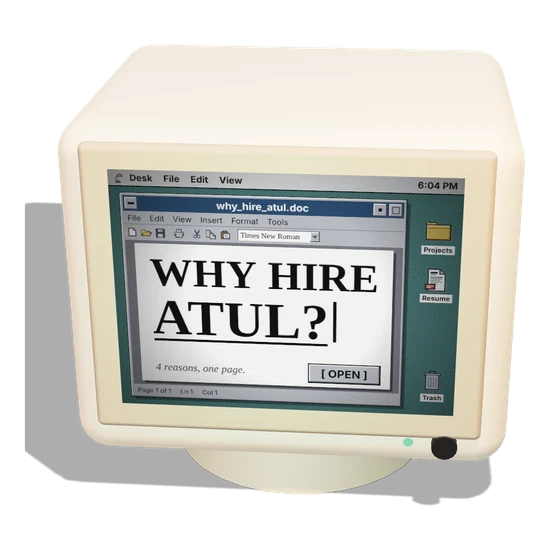
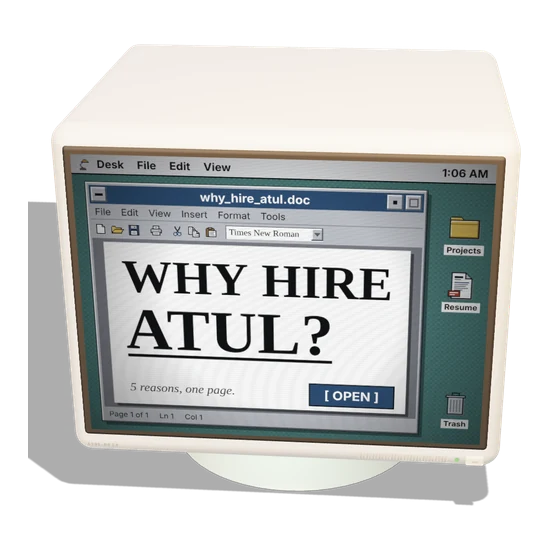
Desk monitor, loading text

diff --git a/css/retro.css b/css/retro.css
@@ -16,9 +16,6 @@
   --rt-paper: #ffffff;
   --rt-paper-ink: #16171a;
   --rt-link: #1d3f9a;
-  --rt-case-inset:
-    inset 0 3px 7px rgba(255, 251, 238, 0.6), inset 0 -12px 20px rgba(98, 80, 50, 0.3),
-    inset 10px 0 16px -8px rgba(255, 250, 235, 0.3), inset -12px 0 18px -8px rgba(98, 80, 50, 0.3);
   --rt-ui: "Helvetica Neue", Helvetica, Arial, "Liberation Sans", sans-serif;
   --rt-serif: "Times New Roman", Times, "Liberation Serif", "Nimbus Roman", serif;
   --rt-term: "VT323", "IBM Plex Mono", ui-monospace, Menlo, Consolas, "DejaVu Sans Mono", monospace;
@@ -52,21 +49,17 @@
 .rt-monitor {
   position: relative;
   padding: 30px 34px 0;
-  border-radius: 46px 46px 38px 38px / 42px 42px 34px 34px;
-  /* beige case like the 3d crt */
-  background:
-    radial-gradient(120% 60% at 22% 0%, rgba(255, 250, 235, 0.4), rgba(255, 250, 235, 0) 62%),
-    linear-gradient(180deg, #d8ccb4 0%, #cdbfa6 42%, #bfb095 100%);
-  box-shadow: var(--rt-case-inset), 0 40px 90px -30px rgba(0, 0, 0, 0.85), 0 0 0 1px #8f8672;
+  border-radius: 26px 26px 20px 20px;
+  background: #d5cebb;
+  box-shadow:
+    inset 0 2px 0 #ebe5d5, inset 2px 0 0 #e2dbca, inset -2px 0 0 #b7ae97, inset 0 -4px 0 #a99f87,
+    0 40px 90px -30px rgba(0, 0, 0, 0.85), 0 0 0 1px #8f8672;
 }
-/* recessed beige bezel */
 .rt-recess {
   padding: 13px;
-  border-radius: 18px;
-  background: linear-gradient(180deg, #a09379 0%, #aea188 100%);
-  box-shadow:
-    inset 0 4px 9px rgba(64, 50, 30, 0.5), inset 3px 0 6px rgba(64, 50, 30, 0.25), inset 0 -1px 0 rgba(255, 250, 235, 0.2),
-    0 1px 0 rgba(255, 251, 238, 0.75), 0 -1px 0 rgba(120, 104, 78, 0.55);
+  border-radius: 20px;
+  background: #2b2924;
+  box-shadow: inset 0 4px 10px rgba(0, 0, 0, 0.75), inset 0 -1px 0 rgba(255, 255, 255, 0.08), 0 1px 0 #efe9d9, 0 -1px 0 #a99f87;
 }
 .rt-dlg .rt-screen { width: var(--sw); height: calc(var(--sw) * 3 / 4); }
 .rt-screen {
@@ -76,29 +69,34 @@
   background: #050605;
   container: rtscreen / size;
   isolation: isolate;
-  box-shadow: 0 0 0 1px rgba(46, 36, 22, 0.6), 0 2px 5px rgba(46, 36, 22, 0.35);
 }
 .rt-chin {
-  height: 70px; display: flex; align-items: center; padding: 0 96px 0 6px;
+  height: 66px; display: flex; align-items: center; gap: 18px; padding: 0 6px 0 4px;
 }
 .rt-badge {
-  font: 700 12px/1 var(--rt-ui); letter-spacing: 0.32em; color: #7f765f;
+  font: 700 12px/1 var(--rt-ui); letter-spacing: 0.32em; color: #8d846f;
   text-shadow: 0 1px 0 #eee8d8, 0 -1px 0 #a49a83;
 }
 .rt-badge em { font-style: normal; font-weight: 400; letter-spacing: 0.1em; }
+.rt-vents {
+  flex: 1; height: 14px; max-width: 220px; margin-left: auto;
+  background: repeating-linear-gradient(90deg, #a9a08a 0 2px, transparent 2px 9px);
+  box-shadow: 0 1px 0 #ece6d6; opacity: 0.8;
+}
 .rt-led {
-  width: 10px; height: 10px; border-radius: 50%; margin-left: auto; margin-right: 62px; background: #5f6a58;
-  box-shadow: inset 0 1px 1px rgba(0, 0, 0, 0.5), 0 1px 0 rgba(255, 251, 238, 0.7);
+  width: 8px; height: 8px; border-radius: 50%; background: #3a3a2f;
+  box-shadow: inset 0 1px 1px rgba(0, 0, 0, 0.5), 0 1px 0 #ece6d6;
 }
-.rt-on .rt-led { background: #3ddc97; box-shadow: 0 0 6px 1px rgba(61, 220, 151, 0.65), inset 0 -1px 1px rgba(0, 0, 0, 0.25), 0 1px 0 rgba(255, 251, 238, 0.7); }
-/* round black knob */
+.rt-on .rt-led { background: #7dd36a; box-shadow: 0 0 6px 1px rgba(125, 211, 106, 0.7), inset 0 -1px 1px rgba(0, 0, 0, 0.3); }
 .rt-power {
-  width: 38px; height: 38px; border: 0; border-radius: 50%; cursor: pointer; padding: 0; flex: none;
-  background: radial-gradient(circle at 36% 30%, #4b4a47 0%, #1b1b1a 48%, #0a0a09 100%);
-  box-shadow: inset 0 1px 1px rgba(255, 255, 255, 0.2), 0 2px 4px rgba(0, 0, 0, 0.5), 0 0 0 3px rgba(98, 80, 50, 0.22);
+  width: 44px; height: 30px; border: 0; border-radius: 6px; cursor: pointer; padding: 0;
+  background: #cbc3ae;
+  box-shadow: inset 0 2px 0 #e6dfcd, inset 0 -3px 0 #9d937b, 0 1px 0 #8f8672, 0 2px 4px rgba(0, 0, 0, 0.25);
+  display: grid; place-items: center;
 }
-.rt-power:active { box-shadow: inset 0 2px 4px rgba(0, 0, 0, 0.7), 0 1px 2px rgba(0, 0, 0, 0.4), 0 0 0 3px rgba(98, 80, 50, 0.22); transform: translateY(1px); }
-.rt-power:focus-visible { outline: 2px solid var(--amber, #f5b041); outline-offset: 4px; }
+.rt-power span { width: 14px; height: 4px; border-radius: 2px; background: #9d937b; box-shadow: inset 0 1px 1px rgba(0, 0, 0, 0.3); }
+.rt-power:active { box-shadow: inset 0 3px 3px rgba(0, 0, 0, 0.25), 0 1px 0 #8f8672; transform: translateY(1px); }
+.rt-power:focus-visible { outline: 2px solid var(--amber, #f5b041); outline-offset: 3px; }
 
 /* ---------- screen layers ---------- */
 .rt-content { position: absolute; inset: 0; transform-origin: 50% 50%; }
@@ -494,7 +492,7 @@ button.rt-wbtn:active { box-shadow: var(--rt-sunken); }
   .rt-dlg .rt-room { padding: 0; }
   .rt-dlg .rt-monitor { padding: 0; border-radius: 0; background: #050605; box-shadow: none; width: 100%; height: 100%; }
   .rt-dlg .rt-recess { padding: 0; border-radius: 0; box-shadow: none; height: 100%; }
-  .rt-dlg .rt-screen { width: 100%; height: 100%; border-radius: 0; box-shadow: none; }
+  .rt-dlg .rt-screen { width: 100%; height: 100%; border-radius: 0; }
   .rt-dlg .rt-chin { display: none; }
   .rt-dlg .rt-off { display: inline-block; }
   .rt-dlg .rt-glass {
@@ -507,7 +505,9 @@ button.rt-wbtn:active { box-shadow: var(--rt-sunken); }
 
 /* ---------- inline monitor ---------- */
 .rt-inline { margin-top: 48px; max-width: 980px; position: relative; }
-.rt-inline .rt-monitor { width: 100%; box-shadow: var(--rt-case-inset), 0 30px 70px -30px rgba(0, 0, 0, 0.8), 0 0 0 1px #8f8672; }
+.rt-inline .rt-monitor { width: 100%; box-shadow:
+    inset 0 2px 0 #ebe5d5, inset 2px 0 0 #e2dbca, inset -2px 0 0 #b7ae97, inset 0 -4px 0 #a99f87,
+    0 30px 70px -30px rgba(0, 0, 0, 0.8), 0 0 0 1px #8f8672; }
 .rt-inline .rt-screen { width: 100%; aspect-ratio: 4 / 3; }
 .rt-inline .rt-work { overscroll-behavior: contain; }
 
@@ -546,13 +546,13 @@ button.rt-icon:hover .rt-icon-label { background: var(--rt-title); color: #fff; 
 
 @media (max-width: 720px) {
   .rt-inline { margin-top: 32px; }
-  .rt-inline .rt-monitor { padding: 10px 10px 0; border-radius: 22px 22px 16px 16px; }
-  .rt-inline .rt-recess { padding: 6px; border-radius: 10px; }
+  .rt-inline .rt-monitor { padding: 10px 10px 0; border-radius: 16px 16px 12px 12px; }
+  .rt-inline .rt-recess { padding: 6px; border-radius: 12px; }
   .rt-inline .rt-screen { aspect-ratio: 4 / 5; border-radius: 8px / 9px; }
-  .rt-inline .rt-chin { height: 50px; padding: 0 30px 0 4px; }
+  .rt-inline .rt-chin { height: 46px; gap: 12px; padding: 0 2px; }
   .rt-inline .rt-badge { font-size: 10px; letter-spacing: 0.24em; }
-  .rt-inline .rt-led { width: 8px; height: 8px; margin-right: 24px; }
-  .rt-inline .rt-power { width: 30px; height: 30px; }
+  .rt-inline .rt-vents { max-width: 72px; }
+  .rt-inline .rt-power { width: 38px; height: 26px; }
   .rt-inline .rt-glass {
     background: repeating-linear-gradient(to bottom, rgba(0, 0, 0, 0.07) 0 1px, rgba(0, 0, 0, 0) 1px 3px);
     box-shadow: inset 0 0 18px rgba(0, 0, 0, 0.4);

diff --git a/js/scene.js b/js/scene.js
@@ -1140,38 +1140,50 @@
   const crtScreenMat = new THREE.MeshBasicMaterial({ map: crtTex, toneMapped: false });
   let crtGlass;
   {
-    const body = new THREE.Mesh(new RoundedBoxGeometry(0.62, 0.5, 0.5, 7, 0.05), M.beige);
+    // same body as the atul-os computer
+    const caseMat = new THREE.MeshStandardMaterial({ color: "#CECBC0", roughness: 0.5, normalMap: T.micro, normalScale: v2(0.1) });
+    const caseDark = new THREE.MeshStandardMaterial({ color: "#B6B1A3", roughness: 0.58, normalMap: T.micro, normalScale: v2(0.1) });
+    const bezelMat = new THREE.MeshStandardMaterial({ color: "#2B2924", roughness: 0.7 });
+    const body = new THREE.Mesh(new RoundedBoxGeometry(0.62, 0.5, 0.5, 6, 0.028), caseMat);
     body.position.y = 0.33;
-    const back = new THREE.Mesh(new RoundedBoxGeometry(0.46, 0.38, 0.22, 5, 0.04), M.beige);
+    const back = new THREE.Mesh(new RoundedBoxGeometry(0.46, 0.38, 0.22, 5, 0.03), caseMat);
     back.position.set(0, 0.32, -0.3);
-    const bezel = new THREE.Mesh(new RoundedBoxGeometry(0.54, 0.42, 0.02, 4, 0.012), M.beigeDark);
-    bezel.position.set(0, 0.35, 0.252);
-    const screen = new THREE.Mesh(new THREE.PlaneGeometry(0.46, 0.345), crtScreenMat);
-    screen.position.set(0, 0.355, 0.265);
-    crtGlass = new THREE.Mesh(new THREE.PlaneGeometry(0.46, 0.345), M.glass);   // reflections on the tube face
-    crtGlass.position.set(0, 0.355, 0.2665);
+    // dark inner bezel
+    const bezel = new THREE.Mesh(new RoundedBoxGeometry(0.579, 0.438, 0.012, 3, 0.01), bezelMat);
+    bezel.position.set(0, 0.336, 0.247);
+    const screen = new THREE.Mesh(new THREE.PlaneGeometry(0.556, 0.417), crtScreenMat);
+    screen.position.set(0, 0.336, 0.2535);
+    crtGlass = new THREE.Mesh(new THREE.PlaneGeometry(0.556, 0.417), M.glass);   // reflections on the tube face
+    crtGlass.position.set(0, 0.336, 0.254);
     crtGlass.renderOrder = 2;
-    const stand = new THREE.Mesh(new THREE.CylinderGeometry(0.16, 0.2, 0.08, 56), M.beigeDark);
+    const stand = new THREE.Mesh(new THREE.CylinderGeometry(0.16, 0.2, 0.08, 56), caseDark);
     stand.position.y = 0.04;
-    const knob1 = new THREE.Mesh(new THREE.CylinderGeometry(0.018, 0.018, 0.02, 24), M.black);
-    knob1.rotation.x = Math.PI / 2; knob1.position.set(0.22, 0.13, 0.255);
-    const led = new THREE.Mesh(new THREE.CircleGeometry(0.007, 20), new THREE.MeshBasicMaterial({ color: C.up }));
-    led.position.set(0.17, 0.13, 0.252);
-    // chin badge
+    // chin: badge, vents, led, power button
+    const CHIN_Y = 0.1;
     const BADGE_FONT = '"Helvetica Neue", Helvetica, Arial, sans-serif';
     const badgeTex = canvasTex(1024, 128, (g, w, h) => {
-      g.font = `700 64px ${BADGE_FONT}`; g.textBaseline = "middle"; g.fillStyle = "#7f765f";
+      g.font = `700 64px ${BADGE_FONT}`; g.textBaseline = "middle"; g.fillStyle = "#8D846F";
       let x = 6;
       for (const ch of "ATUL-OS") { g.fillText(ch, x, h / 2); x += g.measureText(ch).width + 21; }
       g.font = `400 64px ${BADGE_FONT}`; x += 22;
       for (const ch of "2.6") { g.fillText(ch, x, h / 2); x += g.measureText(ch).width + 6; }
     });
-    const badge = new THREE.Mesh(new THREE.PlaneGeometry(0.148, 0.0185), new THREE.MeshStandardMaterial({ map: badgeTex, transparent: true, roughness: 0.6, depthWrite: false, polygonOffset: true, polygonOffsetFactor: -2, polygonOffsetUnits: -2 }));
-    badge.position.set(-0.252 + 0.074, 0.126, 0.2503);
-    badge.castShadow = badge.receiveShadow = false;
-    badge.renderOrder = 1;
-    aoHidden.push(badge);
-    crt.add(body, back, bezel, screen, crtGlass, stand, knob1, led, badge);
+    const decal = (map, w, h) => new THREE.Mesh(new THREE.PlaneGeometry(w, h), new THREE.MeshStandardMaterial({ map, transparent: true, roughness: 0.6, depthWrite: false, polygonOffset: true, polygonOffsetFactor: -2, polygonOffsetUnits: -2 }));
+    const badge = decal(badgeTex, 0.08, 0.01);
+    badge.position.set(-0.287 + 0.04, CHIN_Y, 0.2503);
+    const ventTex = canvasTex(512, 32, (g, w, h) => {
+      for (let x = 0; x < w; x += 18) { g.fillStyle = "#A9A08A"; g.fillRect(x, 0, 5, h); g.fillStyle = "#ECE6D6"; g.fillRect(x + 5, 0, 2, h); }
+    });
+    const vents = decal(ventTex, 0.127, 0.009);
+    vents.position.set(0.171, CHIN_Y, 0.2503);
+    [badge, vents].forEach((m) => { m.castShadow = m.receiveShadow = false; m.renderOrder = 1; aoHidden.push(m); });
+    const led = new THREE.Mesh(new THREE.CircleGeometry(0.0035, 20), new THREE.MeshBasicMaterial({ color: "#7DD36A" }));
+    led.position.set(0.248, CHIN_Y, 0.2505);
+    const knob1 = new THREE.Mesh(new RoundedBoxGeometry(0.026, 0.015, 0.008, 2, 0.003), new THREE.MeshStandardMaterial({ color: "#CBC3AE", roughness: 0.5 }));
+    knob1.position.set(0.273, CHIN_Y, 0.251);
+    const slot = new THREE.Mesh(new THREE.PlaneGeometry(0.009, 0.0025), new THREE.MeshStandardMaterial({ color: "#9D937B", roughness: 0.7 }));
+    slot.position.set(0.273, CHIN_Y, 0.2552);
+    crt.add(body, back, bezel, screen, crtGlass, stand, knob1, slot, led, badge, vents);
     place(crt, "crt");
   }
   hot(crt, "Why hire Atul?", () => DESK.openPanel("why"));

diff --git a/js/retro.js b/js/retro.js
@@ -485,8 +485,9 @@
       '<div class="rt-recess"><div class="rt-screen" data-stage="' + stage + '">' + inner + "</div></div>" +
       '<div class="rt-chin">' +
       '<span class="rt-badge" aria-hidden="true">ATUL-OS <em>2.6</em></span>' +
+      '<span class="rt-vents" aria-hidden="true"></span>' +
       '<span class="rt-led" aria-hidden="true"></span>' +
-      '<button type="button" class="rt-power" data-rt-act="' + power + '" aria-label="' + (power === "power" ? "Power button" : "Shut down") + '"></button>' +
+      '<button type="button" class="rt-power" data-rt-act="' + power + '" aria-label="' + (power === "power" ? "Power button" : "Shut down") + '"><span aria-hidden="true"></span></button>' +
       "</div></div>";
   }
 

diff --git a/index.html b/index.html
@@ -172,7 +172,7 @@
 
       <p class="hero-hint mono" id="heroHint">Click anything on the desk</p>
       <a class="scroll-cue mono" href="#projects">Scroll<svg viewBox="0 0 24 24" aria-hidden="true"><path d="M6 9l6 6 6-6"/></svg></a>
-      <div class="loader mono" id="loader" role="status">Switching on the lamp…</div>
+      <div class="loader mono" id="loader" role="status">Loading…</div>
     </section>
 
     <!-- ============ 01 PROJECTS ============ -->
